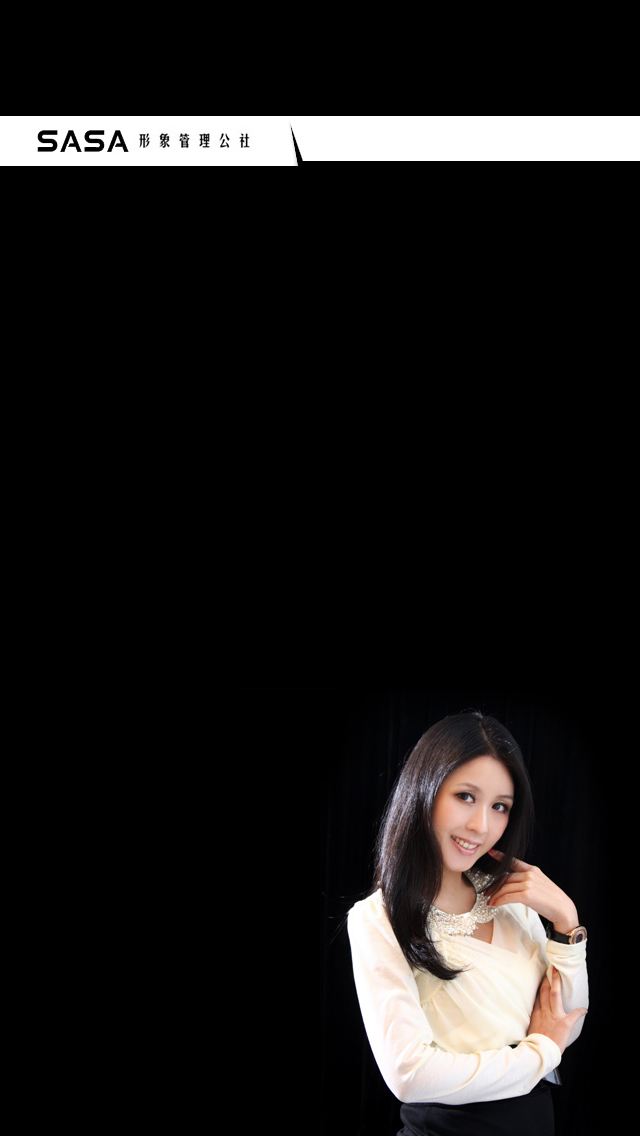
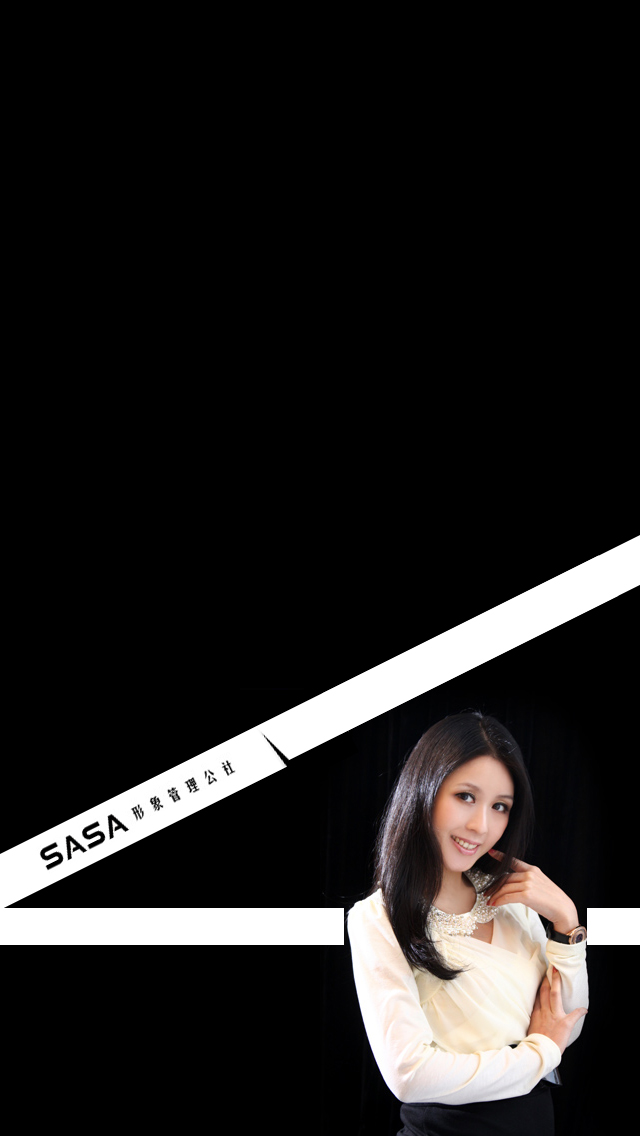
update

Changed region(s): [[0.0, 0.4621, 1.0, 0.8319], [0.0, 0.0924, 1.0, 0.154], [0.9062, 0.8011, 1.0, 0.8319]]

diff --git a/lisa/css/you.css b/lisa/css/you.css
@@ -416,8 +416,8 @@ position: absolute; top: 50%; left: 50%; margin: -28px 0 0 -42px; width: 84px; h
 
 /*s1*/
 .s1_logo,.s2_t{
-	padding-top: 20%;
-	text-align:center;
+	padding-top: 10%;
+	text-align:left;
 }
 .s1_logo img,.s2_t img{
 	display:inline-block;
